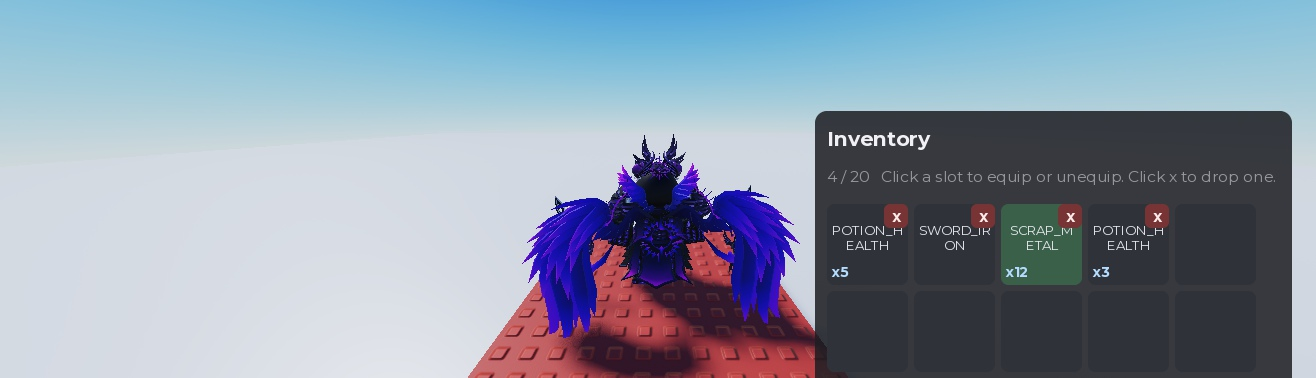
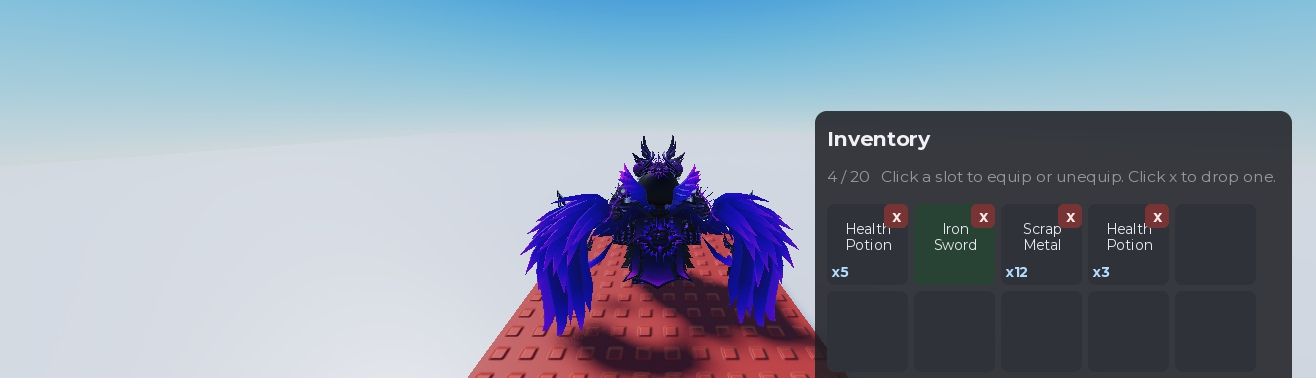
Case study: the re-rendered UI capture

Changed region(s): [[0.3739, 0.4074, 0.8723, 0.9021], [0.4362, 0.9312, 0.5296, 1.0]]

diff --git a/01_Roblox/2026-10-12_InventoryKit/README.md b/01_Roblox/2026-10-12_InventoryKit/README.md
@@ -93,14 +93,14 @@ itself produced.
 
 ![Inventory UI](media/inventory_ui.jpg)
 
-Four stacks loaded from the DataStore, with slot 3 highlighted as equipped — the state that
-survived a restart in the test above.
+Four stacks loaded from the DataStore, with the iron sword highlighted as equipped.
 
 [Watch demo video](TODO)
 
-`[TODO]` The labels are raw item ids and wrap awkwardly in a 54px slot ("POTION_HEALTH"
-breaks mid-word). Real inventories show an icon with the name on hover; the catalogue has no
-icon field yet, and that is a deliberate open question rather than an oversight.
+Labels come from the catalogue's `displayName` — the client already receives the catalogue
+from ReplicatedStorage — and are scaled to fit the slot. `[TODO]` Real inventories pair the
+name with an icon; the catalogue has no icon field yet, which is an open question rather than
+an oversight.
 
 ## How to read the code
 
